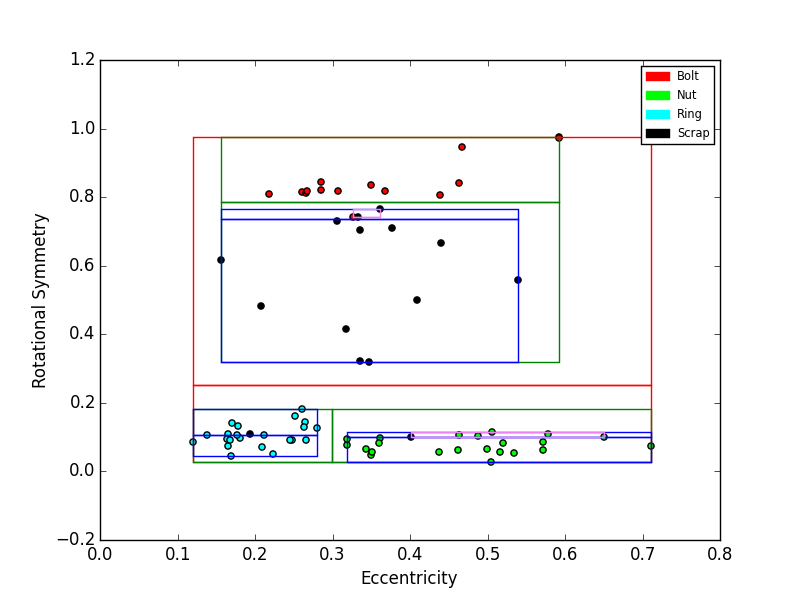
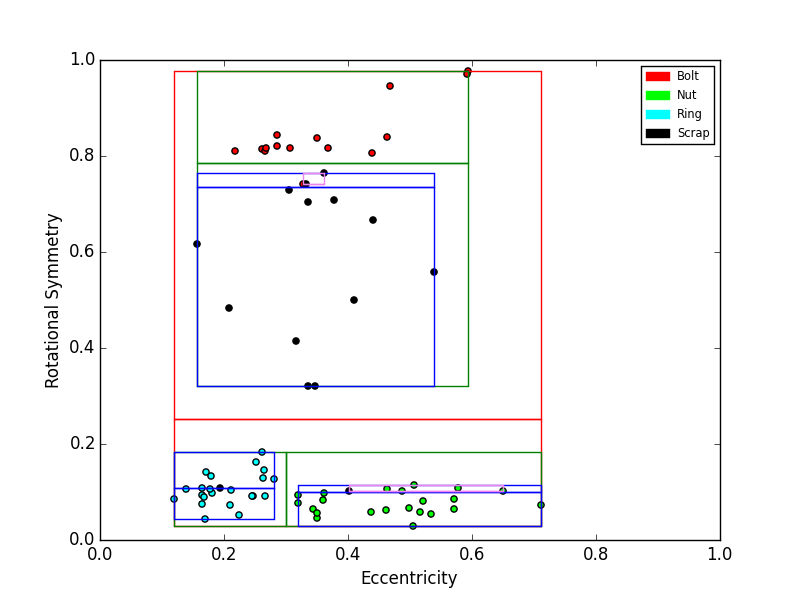
add plots

diff --git a/trainDT.py b/trainDT.py
@@ -3,8 +3,8 @@ import sys
 import statistics
 import math
 import pickle
-from pylab import *
 import numpy as np
+from pylab import *
 import matplotlib.pyplot as plt
 import matplotlib.patches as patches
 ####################################################################################
@@ -88,7 +88,7 @@ class Node:
 ####################################################################################
     def plotPoints(self,list,classified_values,name):
         op=[]
-        x=np.arange(0,1.01,0.02)
+        x=np.arange(0,1.01,0.01)
         simulated_data=[]
         for i in range(0,len(x)):
             for j in range(0,len(x)):
@@ -163,6 +163,8 @@ class Node:
         plt.legend(handles=[red_patch,lime_patch,cyan_patch,black_patch],fontsize = 'x-small')
         plt.ylabel('Rotational Symmetry')
         plt.xlabel('Eccentricity')
+        plt.xlim([0,1])
+        plt.ylim([0,1])
         plt.savefig(name)
         plt.show()
 
@@ -175,7 +177,7 @@ class Node:
         region_color = ['#FFEFD5','#87CEEB','#EE82EE','#B0C4DE']
         object_color=['red','blue','green','yellow']
         for p in range(len(simulated_data)):
-            ax.scatter(float(simulated_data[p][0]),float(simulated_data[p][1]),c=object_color[int(op[p])-1],s=80,alpha=0.2)
+            ax.scatter(float(simulated_data[p][0]),float(simulated_data[p][1]),c=object_color[int(op[p])-1],marker = 'o',edgecolors='w',s=80,alpha=0.2)
         for p in range(len(list)):
             ax.scatter(float(list[p][0]),float(list[p][1]),c=object_color[int(classified_values[p])-1],s=120,alpha=1)
         red_patch = patches.Patch(color='red', label='Bolt')
@@ -185,6 +187,8 @@ class Node:
         plt.legend(handles=[red_patch,lime_patch,cyan_patch,black_patch],fontsize = 'x-small')
         plt.ylabel('Rotational Symmetry')
         plt.xlabel('Eccentricity')
+        plt.xlim([0,1])
+        plt.ylim([0,1])
         plt.savefig(name)
         plt.show()
 
@@ -441,7 +445,14 @@ def main():
     else:
         attributes=[]
         filename=sys.argv[1]
+        #Significance  - 0.5%
+        #significance = {3:12.838,2:10.597,1:7.879}
+        #Significance  - 1%
+        #significance = {3:11.345,2:9.210,1:6.635}
+        #Significance  - 5%
         significance = {3:7.815,2:5.991,1:3.841}
+        #Significance  - 90%
+        #significance = {3:0.584,2:0.211,1:0.016}
         # Extracting the Training data
         #list,class_values=readFile(filename)
         list=parse_csv(filename)

diff --git a/executeDT.py b/executeDT.py
@@ -94,12 +94,12 @@ def testStatistics(list,tree,name):
     print('Confusion matrix:')
         # print(confusion_matrix)
     names=["Bolts","Nuts","Rings","Scrap"]
-    print()
+    print("     Bolts Nuts  Rings  Scrap")
     for row in range(len(confusion_matrix)):
         print(names[row],end="  ")
         element=confusion_matrix[row]
         for each in element:
-            print(each,sep="  ",end="")
+            print(each,end="    ")
         print()
     # Plot the data
     tree.plotPoints(list,classified_values,name)
